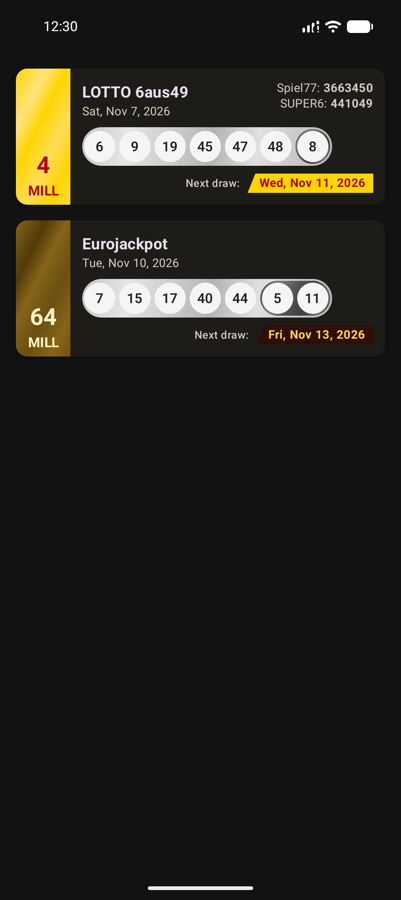
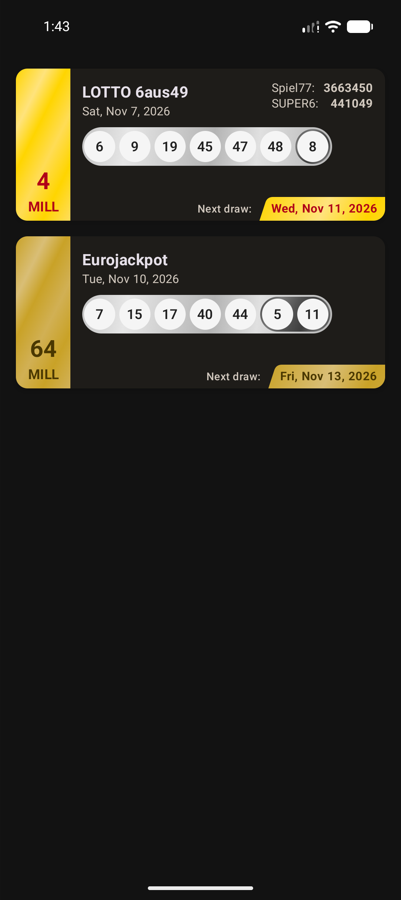
style(designsystem): Eurojackpot in classic gold with warm dark-gold text
Strip and badge use #C9A227 with #4A3800 text (4.7:1, WCAG AA); the metal
stripes now lighten, giving a gold shine, and the badge stands out in dark
mode too. README: updated screenshots, design rows and limitations.

diff --git a/core/designsystem/src/main/kotlin/com/novack/lotto_cc/core/designsystem/theme/Color.kt b/core/designsystem/src/main/kotlin/com/novack/lotto_cc/core/designsystem/theme/Color.kt
@@ -30,10 +30,10 @@ data class LotteryColors(
         )
 
         val Eurojackpot = LotteryColors(
-            accent = Color(0xFF866418),
-            onAccent = Color(0xFFFFF3C4), // 4.9:1
-            badge = Color(0xFF2E0F04),
-            onBadge = Color(0xFFF9D24A), // 12.1:1
+            accent = Color(0xFFC9A227),
+            onAccent = Color(0xFF4A3800), // 4.7:1
+            badge = Color(0xFFC9A227),
+            onBadge = Color(0xFF4A3800),
         )
     }
 }

diff --git a/README.md b/README.md
@@ -187,9 +187,10 @@ In the clarification rounds I fixed the scope and shape of the product:
 | Proposed a metallic finish for the ball row | Brushed silver with a gunmetal bonus group gives the balls a physical, lottery-machine feel. It's static, so it costs nothing at runtime. | #8 |
 | Gave the card a paper surface, elevation and its own previews | A warm, tactile card that reads like a printed ticket, with paper-toned surface colours across the whole theme. | #10 |
 | Explored the metal finish on the jackpot strip, iterating from a vertical sheen to slanted stripes that echo the ball row | One coherent visual language across the card. The stripes only shade away from the text colour, so the jackpot stays readable. | #10 |
-| Tuned the Eurojackpot tone | A lighter bronze that still meets WCAG AA contrast (4.9:1). | #10 |
+| Tuned the Eurojackpot tone, iterating from bronze to a classic gold with warm dark-gold text | A real gold that reads clearly next to LOTTO's yellow, at WCAG AA contrast (4.7:1). The gold badge also stands out in dark mode. | #10, `dev` |
 | Made the jackpot the headline: a large number with "MILL" / "MIO", like the mockup | The most important figure is readable at a glance, and screen readers still get the full amount with currency. | #10 |
 | Final polish of the Spiel 77 / SUPER 6 labels and number colour, directly on `dev` | A closer match to the mockup. | `1abadaf` |
+| Refined the next-draw badge: flush with the card's corner, a rounded top corner and the same metal finish as the strip | The badge reads as part of the card and matches its metallic look. | `5290a35`, `abaf60b` |
 
 ### Scope and prioritisation
 - **Spacing refactor:** split into its own PR (PR #11), so PR #10 stayed reviewable.
@@ -206,7 +207,6 @@ baseline.
 ## Known limitations
 - **Pull-to-refresh** is planned but deferred (goal 13 in the plan).
 - **Home-screen widget:** out of scope.
-- **Dark mode:** the dark-brown Eurojackpot date badge stands out little from the dark card.
 - **TalkBack:** it doesn't announce that tapping a card opens a website.
 - **Time zone:** if it changes while the screen is open, dates update only after the screen is
   recreated.
